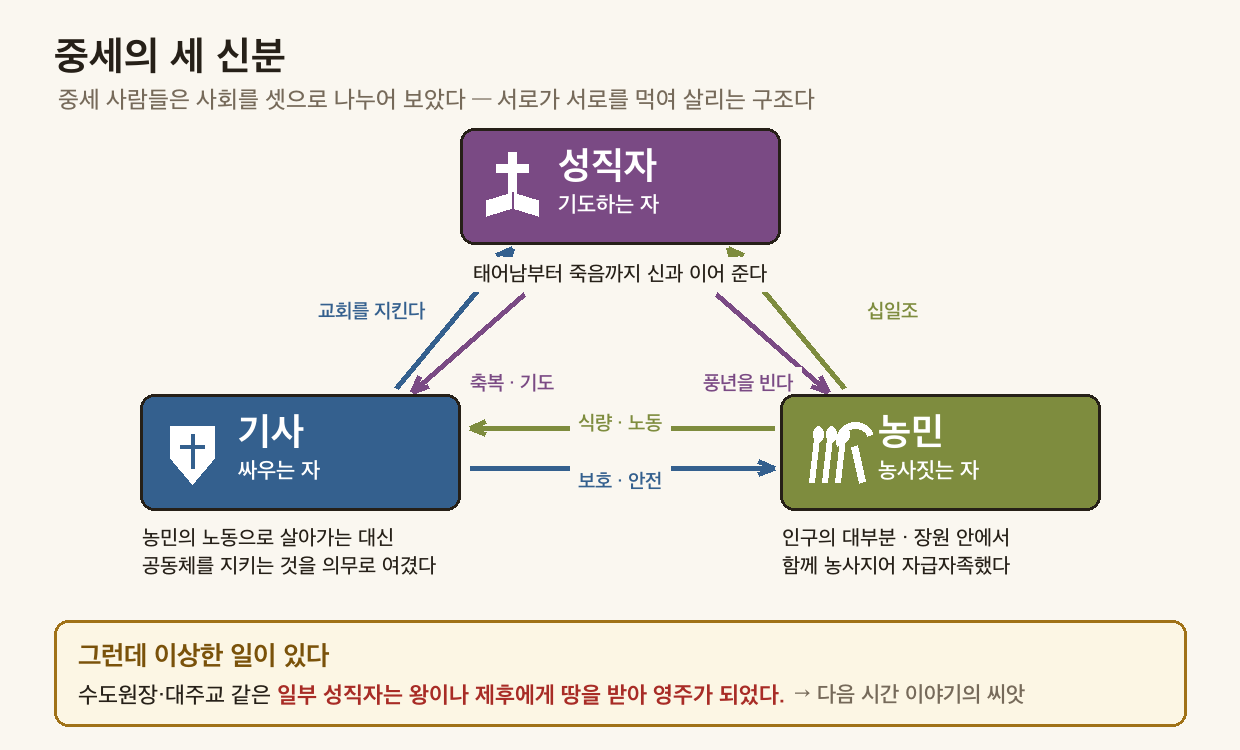
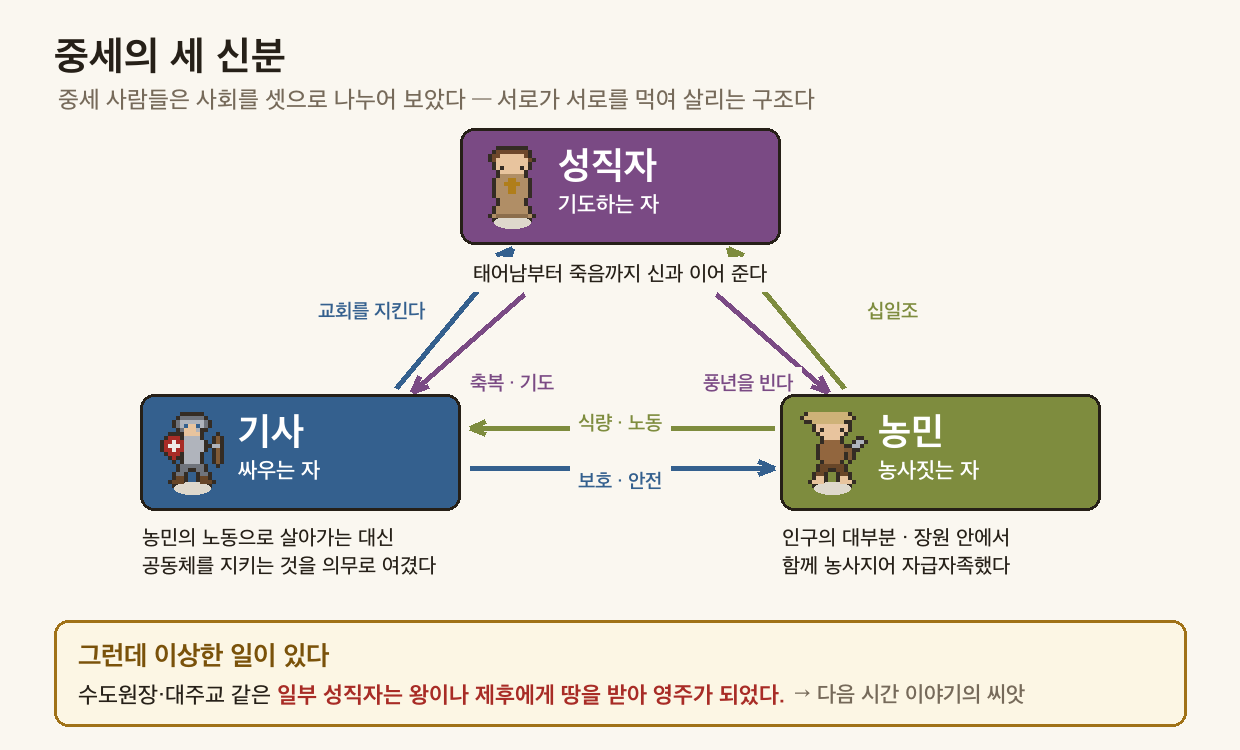
3-3-1 — 정밀 도트 스프라이트 8종 신설 · 이름 정리 도식(지위 vs 역할) · 세 신분·네 관문 도트화(좀비 훅) · 고급 단어 영주 추가

Changed region(s): [[0.6435, 0.552, 0.7048, 0.6747], [0.1226, 0.552, 0.1839, 0.6747], [0.3677, 0.184, 0.429, 0.3067]]

diff --git a/worksheets/3-3-1_봉건사회성립_개념편_정답.html b/worksheets/3-3-1_봉건사회성립_개념편_정답.html
@@ -198,6 +198,7 @@ blockquote {
 <tr><td><strong>주종</strong>(主從) 관계</td><td>주인과 따르는 사람의 관계</td><td>주(主, 주인) + 종(從, 따를)</td><td>"기사와 주군은 <strong>주종 관계</strong>를 맺었다."</td></tr>
 <tr><td><strong>봉토</strong>(封土)</td><td>충성의 대가로 받은 땅</td><td>봉(封, 내려 줌) + 토(土, 땅)</td><td>"주군은 봉신에게 <strong>봉토</strong>를 주었다."</td></tr>
 <tr><td><strong>장원</strong>(莊園)</td><td>영주가 다스리는 자급자족 농촌</td><td>장(莊, 농막) + 원(園, 뜰)</td><td>"봉토는 <strong>장원</strong> 형태로 운영되었다."</td></tr>
+<tr><td><strong>영주</strong>(領主)</td><td>자기 땅을 다스리는 주인</td><td>영(領, 거느릴) + 주(主, 주인)</td><td>"봉신은 장원의 <strong>영주</strong>가 되었다."</td></tr>
 <tr><td><strong>농노</strong>(農奴)</td><td>땅에 매인 농민</td><td>농(農, 농사) + 노(奴, 종)</td><td>"장원의 농민은 대부분 <strong>농노</strong>였다."</td></tr>
 </table>
 <br>
@@ -263,6 +264,17 @@ blockquote {
 <blockquote>교과서 91쪽에서 찾기 — 교과서 도식에 <strong>왕에서 기사로 곧장 가는 화살표</strong>가 있나, 없나?</blockquote>
 <blockquote><strong>답: 없다.</strong> 왕 → 제후, 제후 → 기사로만 이어진다.</blockquote>
 <blockquote>🎯 <strong>우리 도식의 붉은 ✕가 교과서에서도 확인되는 자리다.</strong> 학생이 두 도식을 겹쳐 보게 하는 것이 목적 — <em>"조직도는 왕이 꼭대기인데 왜 왕이 약한가"</em>가 여기서 눈으로 풀린다.</blockquote>
+<br>
+<br>
+<figure class="ws-fig"><img src="images/3-3-1_이름정리.png" alt="헷갈리는 이름 정리 — 왼쪽은 사다리에서의 자리(왕·제후·기사·농노), 오른쪽은 같은 제후 한 사람이 상대에 따라 봉신·주군·영주로 불리는 모습. 주군과 봉신은 신분이 아니라 역할이다." loading="lazy"><figcaption>헷갈리는 이름 정리 — 왼쪽은 사다리에서의 자리(왕·제후·기사·농노), 오른쪽은 같은 제후 한 사람이 상대에 따라 봉신·주군·영주로 불리는 모습. 주군과 봉신은 신분이 아니라 역할이다.</figcaption></figure>
+<br>
+<blockquote>🎙 이름이 많아서 헷갈리는 게 아니야. <strong>두 가지를 같이 부르고 있어서</strong> 그래.</blockquote>
+<blockquote><strong>왕·제후·기사·농노</strong>는 <em>사다리에서 어디쯤 있나</em>(지위)이고, <strong>주군·봉신</strong>은 <em>지금 누구를 보고 있나</em>(역할)야. 그래서 같은 제후 한 사람이 <strong>위를 보면 봉신, 아래를 보면 주군</strong>, 자기 땅에서는 <strong>영주</strong>가 돼. 한 사람이 이름 셋을 가진 거지.</blockquote>
+<br>
+<blockquote>🎯 <strong>천대현 지적(8/31)에서 나온 도식이다</strong> — <em>"상하관계 단어가 너무 많아 헷갈린다."</em> 교사도 헷갈리면 학생은 더 헷갈린다.</blockquote>
+<blockquote><strong>판서 한 줄</strong>: `지위 = 왕·제후·기사·농노 (잘 안 바뀜) / 역할 = 주군·봉신 (상대에 따라 바뀜) / 땅에서 = 영주`</blockquote>
+<blockquote><strong>확인 발문</strong>: <em>"제후는 봉신이야, 주군이야?"</em> → 정답은 <strong>"누구 앞이냐에 따라 둘 다"</strong>. 이 답이 나오면 이 차시의 구조를 잡은 것이다.</blockquote>
+<blockquote>⚠ 4단계의 '왕→기사 직통 없음'도 여기서 풀린다 — 계약은 <strong>마주 본 두 사람</strong> 사이에서만 성립하기 때문이다.</blockquote>
 <br>
 <h2>📖 3단계: 땅 위의 삶 — 장원과 농노</h2>
 <blockquote>📕 <strong>교과서 91쪽</strong> 펴고 채우기 · 배정 시간 <strong>7분</strong></blockquote>

diff --git a/worksheets/3-3-1_봉건사회성립_개념편.html b/worksheets/3-3-1_봉건사회성립_개념편.html
@@ -216,6 +216,7 @@ blockquote {
 <tr><td><strong>주종</strong>(主從) 관계</td><td>주인과 따르는 사람의 관계</td><td>주(主, 주인) + 종(從, 따를)</td><td>"기사와 주군은 <strong>주종 관계</strong>를 맺었다."</td></tr>
 <tr><td><strong>봉토</strong>(封土)</td><td>충성의 대가로 받은 땅</td><td>봉(封, 내려 줌) + 토(土, 땅)</td><td>"주군은 봉신에게 <strong>봉토</strong>를 주었다."</td></tr>
 <tr><td><strong>장원</strong>(莊園)</td><td>영주가 다스리는 자급자족 농촌</td><td>장(莊, 농막) + 원(園, 뜰)</td><td>"봉토는 <strong>장원</strong> 형태로 운영되었다."</td></tr>
+<tr><td><strong>영주</strong>(領主)</td><td>자기 땅을 다스리는 주인</td><td>영(領, 거느릴) + 주(主, 주인)</td><td>"봉신은 장원의 <strong>영주</strong>가 되었다."</td></tr>
 <tr><td><strong>농노</strong>(農奴)</td><td>땅에 매인 농민</td><td>농(農, 농사) + 노(奴, 종)</td><td>"장원의 농민은 대부분 <strong>농노</strong>였다."</td></tr>
 </table>
 <br>
@@ -257,6 +258,12 @@ blockquote {
 <br>
 <blockquote>📖 <strong>91쪽 봉건 사회 구조 도식을 본다</strong> — 위에 우리가 그린 도식과 나란히 놓고 보자.</blockquote>
 <blockquote>교과서 91쪽에서 찾기 — 교과서 도식에 <strong>왕에서 기사로 곧장 가는 화살표</strong>가 있나, 없나? <input type="text" class="blank-input activity-input no-score" data-id="act-2" data-label="교과서 91쪽에서 찾기 — 교과서 도식에 왕에서 기사로 곧장 가는 화살표" style="width:200px" placeholder=""></blockquote>
+<br>
+<br>
+<figure class="ws-fig"><img src="images/3-3-1_이름정리.png" alt="헷갈리는 이름 정리 — 왼쪽은 사다리에서의 자리(왕·제후·기사·농노), 오른쪽은 같은 제후 한 사람이 상대에 따라 봉신·주군·영주로 불리는 모습. 주군과 봉신은 신분이 아니라 역할이다." loading="lazy"><figcaption>헷갈리는 이름 정리 — 왼쪽은 사다리에서의 자리(왕·제후·기사·농노), 오른쪽은 같은 제후 한 사람이 상대에 따라 봉신·주군·영주로 불리는 모습. 주군과 봉신은 신분이 아니라 역할이다.</figcaption></figure>
+<br>
+<blockquote>🎙 이름이 많아서 헷갈리는 게 아니야. <strong>두 가지를 같이 부르고 있어서</strong> 그래.</blockquote>
+<blockquote><strong>왕·제후·기사·농노</strong>는 <em>사다리에서 어디쯤 있나</em>(지위)이고, <strong>주군·봉신</strong>은 <em>지금 누구를 보고 있나</em>(역할)야. 그래서 같은 제후 한 사람이 <strong>위를 보면 봉신, 아래를 보면 주군</strong>, 자기 땅에서는 <strong>영주</strong>가 돼. 한 사람이 이름 셋을 가진 거지.</blockquote>
 <br>
 <h2>📖 3단계: 땅 위의 삶 — 장원과 농노</h2>
 <blockquote>📕 <strong>교과서 91쪽</strong> 펴고 채우기 · 배정 시간 <strong>7분</strong></blockquote>
